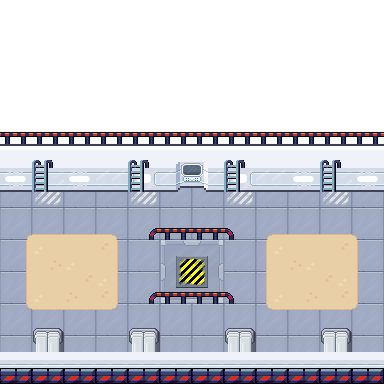
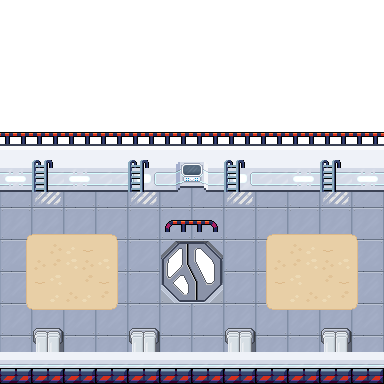
Add airlock art

Changed region(s): [[0.375, 0.5625, 0.625, 0.8125]]

diff --git a/src/store/data/positions.tsx b/src/store/data/positions.tsx
@@ -18,34 +18,34 @@ export const collisions = [0, 0, 0, 0, 0, 0, 0, 0, 0, 0, 0, 0, 0, 0, 0, 0, 0, 0,
     0, 0, 0, 0, 0, 0, 0, 0, 0, 0, 0, 0, 0, 0, 0, 0, 0, 0, 0, 0, 0, 0, 0, 0, 0, 0, 0, 0, 0, 0, 0, 0, 0, 0, 0, 0, 0, 0, 0, 0, 0, 0, 0, 0, 0, 0, 0, 0,
     0, 0, 0, 0, 0, 0, 0, 0, 0, 0, 0, 0, 0, 0, 0, 0, 0, 0, 0, 0, 0, 0, 0, 0, 0, 0, 0, 0, 0, 0, 0, 0, 0, 0, 0, 0, 0, 0, 0, 0, 0, 0, 0, 0, 0, 0, 0, 0,
     0, 0, 0, 0, 0, 0, 0, 0, 0, 0, 0, 0, 0, 0, 0, 0, 0, 0, 0, 0, 0, 0, 0, 0, 0, 0, 0, 0, 0, 0, 0, 0, 0, 0, 0, 0, 0, 0, 0, 0, 0, 0, 0, 0, 0, 0, 0, 0,
-    856, 856, 856, 856, 856, 856, 856, 856, 856, 856, 856, 856, 856, 856, 856, 856, 856, 856, 856, 856, 856, 856, 856, 856, 856, 856, 856, 856, 856, 856, 856, 856, 856, 856, 856, 856, 856, 856, 856, 856, 856, 856, 856, 856, 856, 856, 856, 856,
+    892, 892, 892, 892, 892, 892, 892, 892, 892, 892, 892, 892, 892, 892, 892, 892, 892, 892, 892, 892, 892, 892, 892, 892, 892, 892, 892, 892, 892, 892, 892, 892, 892, 892, 892, 892, 892, 892, 892, 892, 892, 892, 892, 892, 892, 892, 892, 892,
     0, 0, 0, 0, 0, 0, 0, 0, 0, 0, 0, 0, 0, 0, 0, 0, 0, 0, 0, 0, 0, 0, 0, 0, 0, 0, 0, 0, 0, 0, 0, 0, 0, 0, 0, 0, 0, 0, 0, 0, 0, 0, 0, 0, 0, 0, 0, 0,
     0, 0, 0, 0, 0, 0, 0, 0, 0, 0, 0, 0, 0, 0, 0, 0, 0, 0, 0, 0, 0, 0, 0, 0, 0, 0, 0, 0, 0, 0, 0, 0, 0, 0, 0, 0, 0, 0, 0, 0, 0, 0, 0, 0, 0, 0, 0, 0,
-    0, 0, 0, 0, 0, 0, 0, 0, 0, 0, 0, 0, 0, 0, 0, 0, 0, 0, 0, 0, 0, 0, 856, 856, 856, 856, 0, 0, 0, 0, 0, 0, 0, 0, 0, 0, 0, 0, 0, 0, 0, 0, 0, 0, 0, 0, 0, 0,
-    856, 856, 856, 0, 0, 0, 0, 856, 856, 856, 856, 856, 856, 856, 856, 0, 0, 0, 0, 856, 856, 856, 856, 856, 856, 856, 856, 0, 0, 0, 0, 856, 856, 856, 856, 856, 856, 856, 856, 0, 0, 0, 0, 856, 856, 856, 856, 856,
-    0, 0, 856, 0, 0, 0, 0, 856, 0, 0, 0, 0, 0, 0, 856, 0, 0, 0, 0, 856, 0, 856, 0, 0, 0, 0, 856, 0, 0, 0, 0, 856, 0, 0, 0, 0, 0, 0, 856, 0, 0, 0, 0, 856, 0, 0, 0, 0,
-    856, 856, 856, 0, 0, 0, 0, 856, 856, 856, 856, 856, 856, 856, 856, 0, 0, 0, 0, 856, 856, 856, 0, 0, 0, 0, 856, 0, 0, 0, 0, 856, 856, 856, 856, 856, 856, 856, 856, 0, 0, 0, 0, 856, 856, 856, 856, 856,
+    0, 0, 0, 0, 0, 0, 0, 0, 0, 0, 0, 0, 0, 0, 0, 0, 0, 0, 0, 0, 0, 0, 892, 892, 892, 892, 0, 0, 0, 0, 0, 0, 0, 0, 0, 0, 0, 0, 0, 0, 0, 0, 0, 0, 0, 0, 0, 0,
+    892, 892, 892, 0, 0, 0, 0, 892, 892, 892, 892, 892, 892, 892, 892, 0, 0, 0, 0, 892, 892, 892, 892, 892, 892, 892, 892, 0, 0, 0, 0, 892, 892, 892, 892, 892, 892, 892, 892, 0, 0, 0, 0, 892, 892, 892, 892, 892,
+    0, 0, 892, 0, 0, 0, 0, 892, 0, 0, 0, 0, 0, 0, 892, 0, 0, 0, 0, 892, 0, 892, 892, 892, 892, 892, 892, 0, 0, 0, 0, 892, 0, 0, 0, 0, 0, 0, 892, 0, 0, 0, 0, 892, 0, 0, 0, 0,
+    892, 892, 892, 0, 0, 0, 0, 892, 892, 892, 892, 892, 892, 892, 892, 0, 0, 0, 0, 892, 892, 892, 0, 0, 0, 0, 892, 0, 0, 0, 0, 892, 892, 892, 892, 892, 892, 892, 892, 0, 0, 0, 0, 892, 892, 892, 892, 892,
     0, 0, 0, 0, 0, 0, 0, 0, 0, 0, 0, 0, 0, 0, 0, 0, 0, 0, 0, 0, 0, 0, 0, 0, 0, 0, 0, 0, 0, 0, 0, 0, 0, 0, 0, 0, 0, 0, 0, 0, 0, 0, 0, 0, 0, 0, 0, 0,
     0, 0, 0, 0, 0, 0, 0, 0, 0, 0, 0, 0, 0, 0, 0, 0, 0, 0, 0, 0, 0, 0, 0, 0, 0, 0, 0, 0, 0, 0, 0, 0, 0, 0, 0, 0, 0, 0, 0, 0, 0, 0, 0, 0, 0, 0, 0, 0,
     0, 0, 0, 0, 0, 0, 0, 0, 0, 0, 0, 0, 0, 0, 0, 0, 0, 0, 0, 0, 0, 0, 0, 0, 0, 0, 0, 0, 0, 0, 0, 0, 0, 0, 0, 0, 0, 0, 0, 0, 0, 0, 0, 0, 0, 0, 0, 0,
     0, 0, 0, 0, 0, 0, 0, 0, 0, 0, 0, 0, 0, 0, 0, 0, 0, 0, 0, 0, 0, 0, 0, 0, 0, 0, 0, 0, 0, 0, 0, 0, 0, 0, 0, 0, 0, 0, 0, 0, 0, 0, 0, 0, 0, 0, 0, 0,
-    0, 0, 0, 0, 0, 0, 0, 0, 0, 0, 0, 0, 0, 0, 0, 0, 0, 0, 0, 0, 0, 0, 0, 0, 0, 0, 0, 0, 0, 0, 0, 0, 0, 0, 0, 0, 0, 0, 0, 0, 0, 0, 0, 0, 0, 0, 0, 0,
-    0, 0, 0, 0, 0, 0, 0, 0, 0, 0, 0, 0, 0, 0, 0, 0, 0, 0, 0, 856, 856, 856, 856, 856, 856, 856, 856, 856, 856, 0, 0, 0, 0, 0, 0, 0, 0, 0, 0, 0, 0, 0, 0, 0, 0, 0, 0, 0,
-    0, 0, 0, 0, 0, 0, 0, 0, 0, 0, 0, 0, 0, 0, 0, 0, 0, 0, 0, 0, 0, 0, 0, 0, 0, 0, 0, 0, 0, 0, 0, 0, 0, 0, 0, 0, 0, 0, 0, 0, 0, 0, 0, 0, 0, 0, 0, 0,
-    0, 0, 0, 0, 0, 0, 0, 0, 0, 0, 0, 0, 0, 0, 0, 0, 0, 0, 0, 0, 0, 0, 0, 0, 0, 0, 0, 0, 0, 0, 0, 0, 0, 0, 0, 0, 0, 0, 0, 0, 0, 0, 0, 0, 0, 0, 0, 0,
+    0, 0, 0, 0, 0, 0, 0, 0, 0, 0, 0, 0, 0, 0, 0, 0, 0, 0, 0, 0, 0, 892, 892, 892, 892, 892, 892, 0, 0, 0, 0, 0, 0, 0, 0, 0, 0, 0, 0, 0, 0, 0, 0, 0, 0, 0, 0, 0,
     0, 0, 0, 0, 0, 0, 0, 0, 0, 0, 0, 0, 0, 0, 0, 0, 0, 0, 0, 0, 0, 0, 0, 0, 0, 0, 0, 0, 0, 0, 0, 0, 0, 0, 0, 0, 0, 0, 0, 0, 0, 0, 0, 0, 0, 0, 0, 0,
     0, 0, 0, 0, 0, 0, 0, 0, 0, 0, 0, 0, 0, 0, 0, 0, 0, 0, 0, 0, 0, 0, 0, 0, 0, 0, 0, 0, 0, 0, 0, 0, 0, 0, 0, 0, 0, 0, 0, 0, 0, 0, 0, 0, 0, 0, 0, 0,
     0, 0, 0, 0, 0, 0, 0, 0, 0, 0, 0, 0, 0, 0, 0, 0, 0, 0, 0, 0, 0, 0, 0, 0, 0, 0, 0, 0, 0, 0, 0, 0, 0, 0, 0, 0, 0, 0, 0, 0, 0, 0, 0, 0, 0, 0, 0, 0,
     0, 0, 0, 0, 0, 0, 0, 0, 0, 0, 0, 0, 0, 0, 0, 0, 0, 0, 0, 0, 0, 0, 0, 0, 0, 0, 0, 0, 0, 0, 0, 0, 0, 0, 0, 0, 0, 0, 0, 0, 0, 0, 0, 0, 0, 0, 0, 0,
     0, 0, 0, 0, 0, 0, 0, 0, 0, 0, 0, 0, 0, 0, 0, 0, 0, 0, 0, 0, 0, 0, 0, 0, 0, 0, 0, 0, 0, 0, 0, 0, 0, 0, 0, 0, 0, 0, 0, 0, 0, 0, 0, 0, 0, 0, 0, 0,
-    0, 0, 0, 0, 0, 0, 0, 0, 0, 0, 0, 0, 0, 0, 0, 0, 0, 0, 0, 856, 856, 856, 856, 856, 856, 856, 856, 856, 856, 0, 0, 0, 0, 0, 0, 0, 0, 0, 0, 0, 0, 0, 0, 0, 0, 0, 0, 0,
     0, 0, 0, 0, 0, 0, 0, 0, 0, 0, 0, 0, 0, 0, 0, 0, 0, 0, 0, 0, 0, 0, 0, 0, 0, 0, 0, 0, 0, 0, 0, 0, 0, 0, 0, 0, 0, 0, 0, 0, 0, 0, 0, 0, 0, 0, 0, 0,
     0, 0, 0, 0, 0, 0, 0, 0, 0, 0, 0, 0, 0, 0, 0, 0, 0, 0, 0, 0, 0, 0, 0, 0, 0, 0, 0, 0, 0, 0, 0, 0, 0, 0, 0, 0, 0, 0, 0, 0, 0, 0, 0, 0, 0, 0, 0, 0,
     0, 0, 0, 0, 0, 0, 0, 0, 0, 0, 0, 0, 0, 0, 0, 0, 0, 0, 0, 0, 0, 0, 0, 0, 0, 0, 0, 0, 0, 0, 0, 0, 0, 0, 0, 0, 0, 0, 0, 0, 0, 0, 0, 0, 0, 0, 0, 0,
-    0, 0, 0, 0, 856, 856, 856, 856, 0, 0, 0, 0, 0, 0, 0, 0, 856, 856, 856, 856, 0, 0, 0, 0, 0, 0, 0, 0, 856, 856, 856, 856, 0, 0, 0, 0, 0, 0, 0, 0, 856, 856, 856, 856, 0, 0, 0, 0,
-    0, 0, 0, 0, 856, 0, 0, 856, 0, 0, 0, 0, 0, 0, 0, 0, 856, 0, 0, 856, 0, 0, 0, 0, 0, 0, 0, 0, 856, 0, 0, 856, 0, 0, 0, 0, 0, 0, 0, 0, 856, 0, 0, 856, 0, 0, 0, 0,
-    0, 0, 0, 0, 856, 0, 0, 856, 0, 0, 0, 0, 0, 0, 0, 0, 856, 0, 0, 856, 0, 0, 0, 0, 0, 0, 0, 0, 856, 0, 0, 856, 0, 0, 0, 0, 0, 0, 0, 0, 856, 0, 0, 856, 0, 0, 0, 0,
-    856, 856, 856, 856, 0, 0, 0, 0, 856, 856, 856, 856, 856, 856, 856, 856, 0, 0, 0, 0, 856, 856, 856, 856, 856, 856, 856, 856, 0, 0, 0, 0, 856, 856, 856, 856, 856, 856, 856, 856, 0, 0, 0, 0, 856, 856, 856, 856,
+    0, 0, 0, 0, 0, 0, 0, 0, 0, 0, 0, 0, 0, 0, 0, 0, 0, 0, 0, 0, 0, 0, 0, 0, 0, 0, 0, 0, 0, 0, 0, 0, 0, 0, 0, 0, 0, 0, 0, 0, 0, 0, 0, 0, 0, 0, 0, 0,
+    0, 0, 0, 0, 0, 0, 0, 0, 0, 0, 0, 0, 0, 0, 0, 0, 0, 0, 0, 0, 0, 0, 0, 0, 0, 0, 0, 0, 0, 0, 0, 0, 0, 0, 0, 0, 0, 0, 0, 0, 0, 0, 0, 0, 0, 0, 0, 0,
+    0, 0, 0, 0, 0, 0, 0, 0, 0, 0, 0, 0, 0, 0, 0, 0, 0, 0, 0, 0, 0, 0, 0, 0, 0, 0, 0, 0, 0, 0, 0, 0, 0, 0, 0, 0, 0, 0, 0, 0, 0, 0, 0, 0, 0, 0, 0, 0,
+    0, 0, 0, 0, 0, 0, 0, 0, 0, 0, 0, 0, 0, 0, 0, 0, 0, 0, 0, 0, 0, 0, 0, 0, 0, 0, 0, 0, 0, 0, 0, 0, 0, 0, 0, 0, 0, 0, 0, 0, 0, 0, 0, 0, 0, 0, 0, 0,
+    0, 0, 0, 0, 892, 892, 892, 892, 0, 0, 0, 0, 0, 0, 0, 0, 892, 892, 892, 892, 0, 0, 0, 0, 0, 0, 0, 0, 892, 892, 892, 892, 0, 0, 0, 0, 0, 0, 0, 0, 892, 892, 892, 892, 0, 0, 0, 0,
+    0, 0, 0, 0, 892, 0, 0, 892, 0, 0, 0, 0, 0, 0, 0, 0, 892, 0, 0, 892, 0, 0, 0, 0, 0, 0, 0, 0, 892, 0, 0, 892, 0, 0, 0, 0, 0, 0, 0, 0, 892, 0, 0, 892, 0, 0, 0, 0,
+    0, 0, 0, 0, 892, 0, 0, 892, 0, 0, 0, 0, 0, 0, 0, 0, 892, 0, 0, 892, 0, 0, 0, 0, 0, 0, 0, 0, 892, 0, 0, 892, 0, 0, 0, 0, 0, 0, 0, 0, 892, 0, 0, 892, 0, 0, 0, 0,
+    892, 892, 892, 892, 0, 0, 0, 0, 892, 892, 892, 892, 892, 892, 892, 892, 0, 0, 0, 0, 892, 892, 892, 892, 892, 892, 892, 892, 0, 0, 0, 0, 892, 892, 892, 892, 892, 892, 892, 892, 0, 0, 0, 0, 892, 892, 892, 892,
     0, 0, 0, 0, 0, 0, 0, 0, 0, 0, 0, 0, 0, 0, 0, 0, 0, 0, 0, 0, 0, 0, 0, 0, 0, 0, 0, 0, 0, 0, 0, 0, 0, 0, 0, 0, 0, 0, 0, 0, 0, 0, 0, 0, 0, 0, 0, 0,
     0, 0, 0, 0, 0, 0, 0, 0, 0, 0, 0, 0, 0, 0, 0, 0, 0, 0, 0, 0, 0, 0, 0, 0, 0, 0, 0, 0, 0, 0, 0, 0, 0, 0, 0, 0, 0, 0, 0, 0, 0, 0, 0, 0, 0, 0, 0, 0,
     0, 0, 0, 0, 0, 0, 0, 0, 0, 0, 0, 0, 0, 0, 0, 0, 0, 0, 0, 0, 0, 0, 0, 0, 0, 0, 0, 0, 0, 0, 0, 0, 0, 0, 0, 0, 0, 0, 0, 0, 0, 0, 0, 0, 0, 0, 0, 0];
